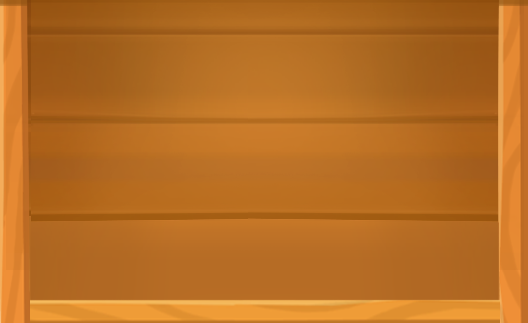
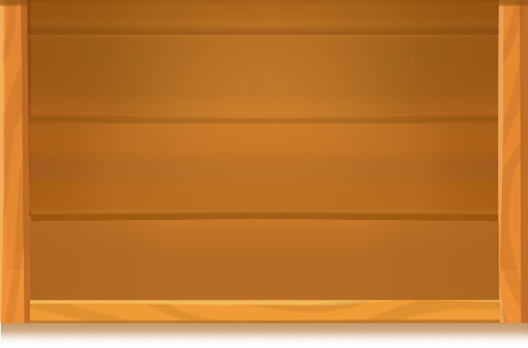
set new profile

Changed region(s): [[0.0, 0.8359, 1.0, 1.0], [0.2727, 0.6502, 0.7576, 0.6811]]

diff --git a/src/scripts/components/modal/ProfileWindow.ts b/src/scripts/components/modal/ProfileWindow.ts
@@ -1,6 +1,8 @@
 import axios from "axios";
 import Modal from "../../scenes/Modal/Modal";
 import LocalStorage from '../../libs/LocalStorage';
+import { Icon } from "../Utils/LogoManager";
+import LogoManager from './../Utils/LogoManager';
 
 export default class ProfileWindow {
   public scene: Modal;
@@ -13,7 +15,8 @@ export default class ProfileWindow {
   private status: Phaser.GameObjects.Text; 
   private nickBtn: Phaser.GameObjects.Sprite;
   private nickText: Phaser.GameObjects.Text;
-  private bg: Phaser.GameObjects.Sprite;
+  private topBg: Phaser.GameObjects.Sprite;
+  private bottomBg: Phaser.GameObjects.TileSprite;
   private header: Phaser.GameObjects.Sprite;
   private headerText: Phaser.GameObjects.Text;
   private avatar: Phaser.GameObjects.Sprite;
@@ -37,6 +40,8 @@ export default class ProfileWindow {
   private profile: IprofileData;
   private owner: boolean = false;
 
+  private bottomHeight: number = 150;
+
   constructor(scene: Modal) {
     this.scene = scene;
     this.getUserInfo();
@@ -44,7 +49,7 @@ export default class ProfileWindow {
 
   private init(): void {
     this.x = this.scene.cameras.main.centerX;
-    this.y = this.scene.cameras.main.centerY;
+    this.y = this.scene.cameras.main.centerY - this.bottomHeight / 2;
     if (this.profile) {
       this.owner = false;
     } else {
@@ -59,6 +64,7 @@ export default class ProfileWindow {
         avatar: 'avatar',
         status: this.scene.state.user.status,
         level: this.scene.state.user.level,
+        clan: this.scene.state.clan
       };
       this.profile = profile;
     }
@@ -128,11 +134,13 @@ export default class ProfileWindow {
     if (this.owner) this.createOwnerBtns();
     else this.createForeignBtns();
     this.setListeners();
+    this.createClanInfo();
   }
 
   private createMainElements(): void {
-    this.bg = this.scene.add.sprite(this.x, this.y, 'profile-window-bg');
-    this.height = this.bg.getBounds().height;
+    this.topBg = this.scene.add.sprite(this.x, this.y, 'profile-window-bg');
+    this.createBottomBg();
+    this.height = this.topBg.getBounds().height;
     this.createHeader();
     this.createFooter();
   }
@@ -151,7 +159,7 @@ export default class ProfileWindow {
   }
 
   private createFooter(): void {
-    this.footer = this.scene.add.sprite(this.x, this.y + this.height / 2 + 23, 'profile-window-footer').setDepth(-1).setOrigin(0.5, 1);
+    this.footer = this.scene.add.sprite(this.x, this.bottomBg.getBounds().bottom - 55, 'profile-window-footer').setOrigin(0.5, 0);
   }
 
   private createAvatar(): void {
@@ -236,15 +244,15 @@ export default class ProfileWindow {
   private createOwnerBtns(): void {
     const pos1: Iposition = {
       x: this.x - 165,
-      y: this.y + 97,
+      y: this.y + 90,
     };
     const pos2: Iposition = {
       x: this.x - 25,
-      y: this.y + 97,
+      y: this.y + 90,
     }
     const pos3: Iposition = {
       x: this.x + 105,
-      y: this.y + 97,
+      y: this.y + 90,
     }
     const textStyle: Phaser.Types.GameObjects.Text.TextStyle = {
       fontFamily: 'Shadow',
@@ -289,15 +297,15 @@ export default class ProfileWindow {
   private createForeignBtns(): void {
     const pos1: Iposition = {
       x: this.x - 150,
-      y: this.y + 97,
+      y: this.y + 90,
     };
     const pos2: Iposition = {
       x: this.x,
-      y: this.y + 97,
+      y: this.y + 90,
     }
     const pos3: Iposition = {
       x: this.x + 150,
-      y: this.y + 97,
+      y: this.y + 90,
     }
     const textStyle: Phaser.Types.GameObjects.Text.TextStyle = {
       fontFamily: 'Shadow',
@@ -421,5 +429,72 @@ export default class ProfileWindow {
     const modal: Imodal = { type: 1, sysType };
     this.scene.state.modal = modal;
     this.scene.scene.restart(this.scene.state);
+  }
+
+  private createBottomBg(): void {
+    const pos: Iposition = {
+      x: this.x,
+      y: this.topBg.getBounds().bottom - 40,
+    };
+    const width: number = 527;
+    this.bottomBg = this.scene.add.tileSprite(pos.x, pos.y, width, this.bottomHeight, 'white-pixel').setTint(0xFA8F1F).setDepth(-1).setOrigin(0.5, 0);
+    this.scene.add.nineslice(pos.x, pos.y + 40, width - 40, this.bottomHeight , 'clan-window-search-plate-ns', 5).setOrigin(0.5, 0).setDepth(1);
+  }
+
+  private createClanInfo(): void {
+    const textStyle: Phaser.Types.GameObjects.Text.TextStyle = {
+      fontFamily: 'Shadow',
+      fontSize: '20px',
+      color: '#954F00',
+      wordWrap: { width: 350, useAdvancedWrap: true },
+    };
+    const bannerStyle: Phaser.Types.GameObjects.Text.TextStyle = {
+      fontFamily: 'Bip',
+      fontSize: '16px',
+      color: '#D98C38',
+      wordWrap: { width: 330 },
+    };
+    const btnTextStyle: Phaser.Types.GameObjects.Text.TextStyle = {
+      fontFamily: 'Shadow',
+      wordWrap: { width: 100 },
+      align: 'center',
+      fontSize: '16px',
+      color: '#ffe2e2',
+      stroke: '#D78A31',
+      strokeThickness: 3,
+    };
+    const geom: Phaser.Geom.Rectangle = this.bottomBg.getBounds();
+    const pos: Iposition = {
+      x: geom.left + 60,
+      y: geom.centerY + 40,
+    };
+    if (this.profile.clan) {
+      const title: Phaser.GameObjects.Text = this.scene.add.text(geom.centerX, geom.centerY, 'В клане', textStyle).setOrigin(0.5).setDepth(2);
+      const avatar: Icon = LogoManager.createIcon(this.scene, pos.x, pos.y, this.profile.clan.avatar).setScale(0.3).setDepth(2);
+      const avatarGeom: Phaser.Geom.Rectangle = avatar.getBounds();
+      const text: Phaser.GameObjects.Text = this.scene.add.text(avatarGeom.right + 10, avatarGeom.centerY, this.profile.clan.name, textStyle).setDepth(2).setOrigin(0, 0.5);
+      if (this.owner) {
+        const btn: Phaser.GameObjects.Sprite = this.scene.add.sprite(geom.centerX + 100, pos.y, 'profile-window-button-yellow').setOrigin(0, 0.5).setDepth(2);
+        const btnText: Phaser.GameObjects.Text = this.scene.add.text(btn.getCenter().x, btn.getCenter().y - 5, this.scene.state.lang.clans, btnTextStyle).setDepth(2).setOrigin(0.5);
+        this.scene.clickModalBtn({ btn: btn, title: btnText }, () => {
+          console.log('Открывается ферма клана')
+        });
+      }
+    } else {
+      if (!this.owner) {
+        this.scene.add.text(this.scene.cameras.main.centerX, pos.y, this.scene.state.lang.userHasNotInClan, textStyle).setAlign('center').setDepth(2).setOrigin(0.5);
+      } else {
+        const bannerText = this.scene.add.text(pos.x - 20, pos.y, this.scene.state.lang.joinClanBanner, bannerStyle).setDepth(2).setOrigin(0, 0.5);
+        const btn: Phaser.GameObjects.Sprite = this.scene.add.sprite(bannerText.getBounds().right + 5, pos.y, 'profile-window-button-yellow').setOrigin(0, 0.5).setDepth(2);
+        const btnText: Phaser.GameObjects.Text = this.scene.add.text(btn.getCenter().x, btn.getCenter().y - 5, this.scene.state.lang.clans, btnTextStyle).setDepth(2).setOrigin(0.5);
+        this.scene.clickModalBtn({ btn: btn, title: btnText }, () => {
+          this.scene.state.modal = {
+            type: 17,
+            clanTabType: 3,
+          };
+          this.scene.scene.restart(this.scene.state);
+        });
+      }
+    }
   }
 };

diff --git a/src/scripts/langs.ts b/src/scripts/langs.ts
@@ -985,6 +985,8 @@ export default {
     confirmExcludeUser: 'Вы действительно хотите исключить $1 из клана?',
     clanСreation: 'Создание клана',
     flagSettings: 'Настройки флага',
+    userHasNotInClan: 'Пользователь не состоит в клане',
+    joinClanBanner: 'Вступите в клан и получите:\n - помощь в игре от других участников\n - участие в клановых турнирах\n - возможность развивать клановую ферму',
   },
 
   en: {
@@ -1973,6 +1975,7 @@ export default {
     confirmExcludeUser: 'Вы действительно хотите исключить $1 из клана?',
     clanСreation: 'Создание клана',
     flagSettings: 'Настройки флага',
-    
+    userHasNotInClan: 'Пользователь не состоит в клане',
+    joinClanBanner: 'Вступите в клан и получите возможность:\n - помощи в игре от других участников\n - участия в клановых турнирах\n - развивать клановую ферму и т.д.'
   },
 }

diff --git a/src/scripts/scenes/Modal/typePreload.ts b/src/scripts/scenes/Modal/typePreload.ts
@@ -283,6 +283,7 @@ export default function typePreload(): void {
         this.load.image('profile-window-button-yellow', profileWindowBtnYellow);
         this.load.image('profile-window-button-red', profileWindowBtnRed);
         this.load.image('profile-window-button-green', profileWindowBtnGreen);
+        this.load.image('clan-window-search-plate-ns', clanWindowSearchPlate);
         this.load.image('tasks-close', tasksClose);
         break;
       case 16: 

diff --git a/src/scripts/interfaces.ts b/src/scripts/interfaces.ts
@@ -155,6 +155,14 @@ interface IprofileData {
   level: number;
   avatar: string;
   avatarType?: number;
+  clan?: IclanData;
+}
+interface IclanData {
+  id: string;
+  name: string;
+  ownerId: string;
+  isClosed: boolean;
+  avatar: IconfigIcon;
 }
 interface IdataAutoSave {
   id: string;
